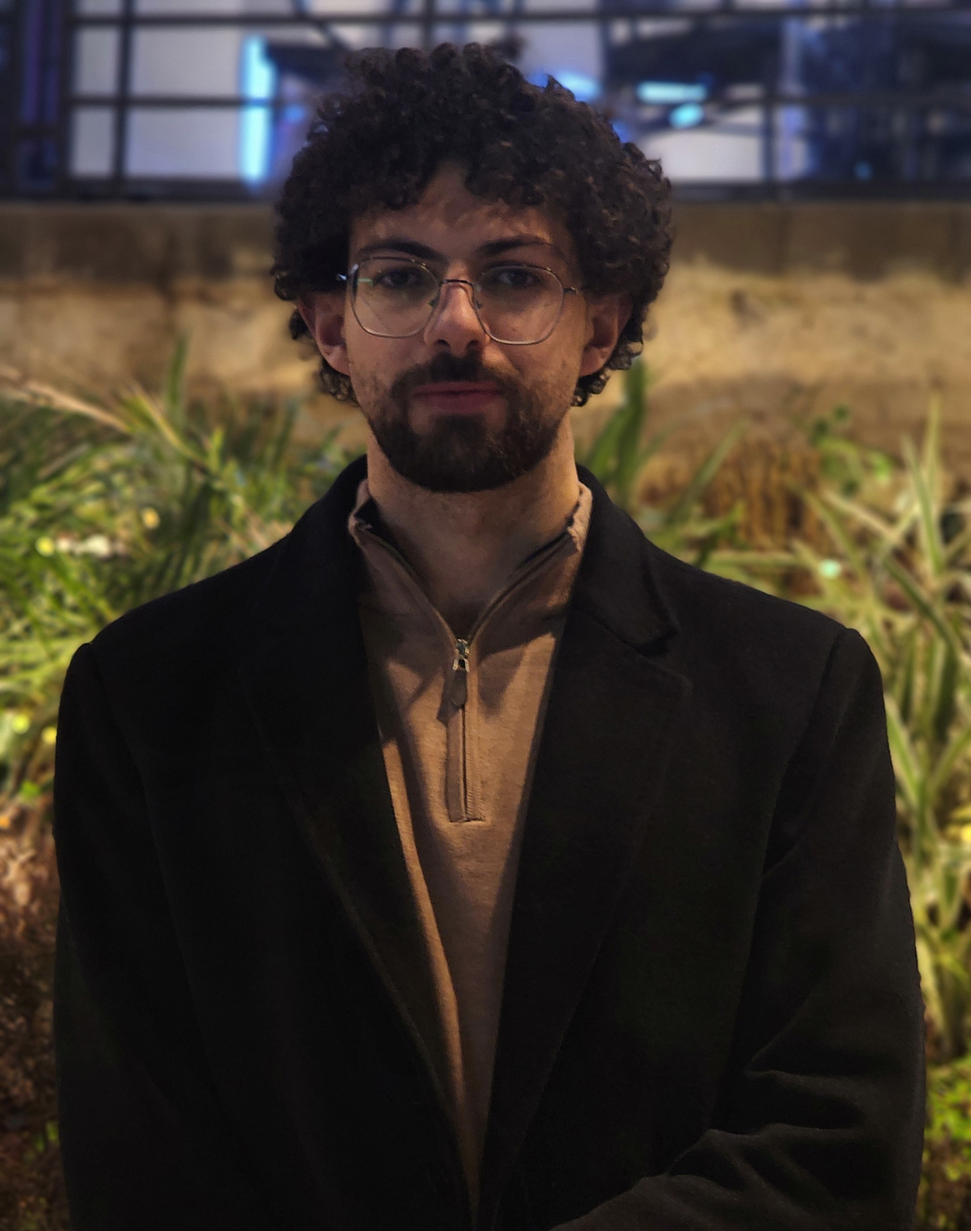
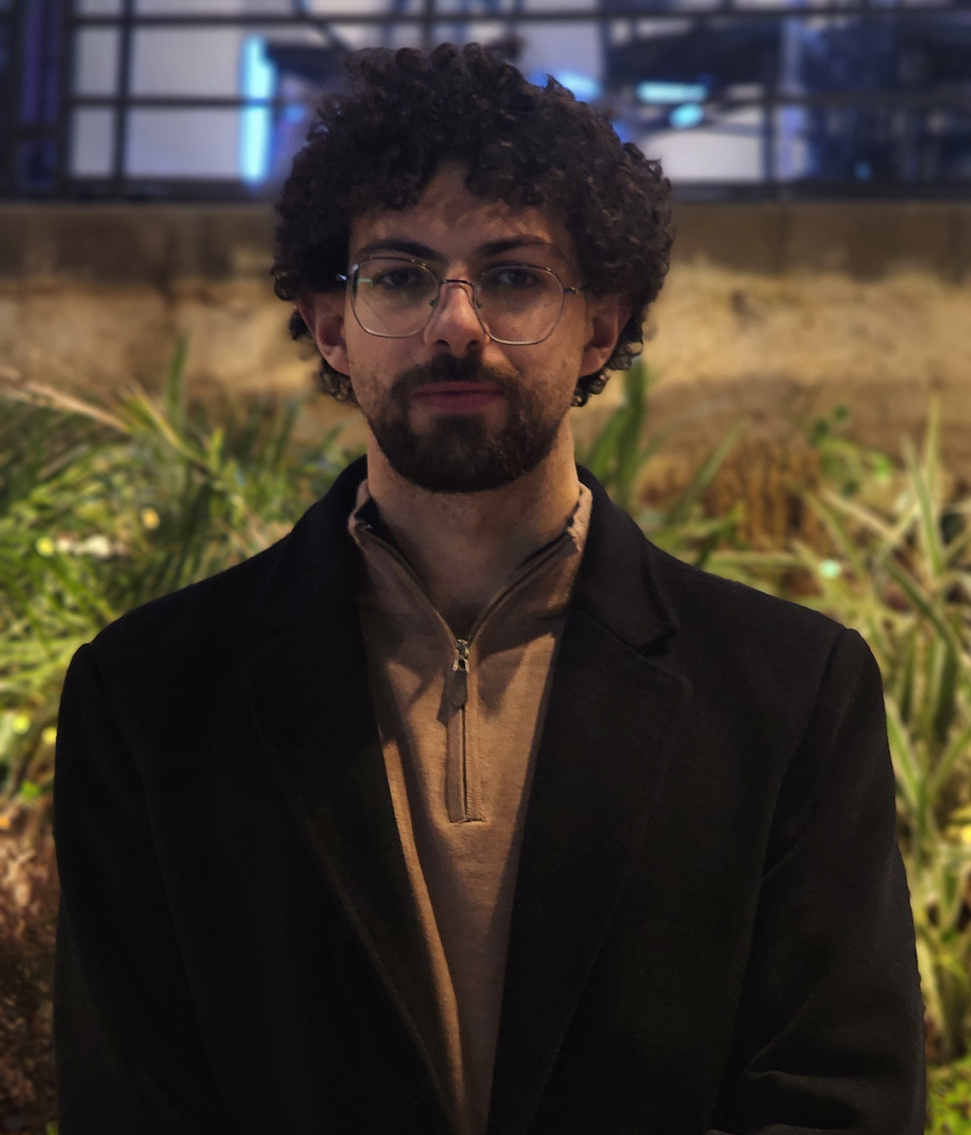
Move profile photo to hero section

diff --git a/src/components/sections/hero-section.tsx b/src/components/sections/hero-section.tsx
@@ -1,4 +1,6 @@
+import Image from "next/image";
 import Link from "next/link";
+
 import { Container } from "@/components/ui/container";
 import { profile } from "@/config/profile";
 import { getLocalizedText } from "@/i18n/locales";
@@ -59,11 +61,12 @@ function ActionLink({ link, locale, variant }: ActionLinkProps) {
 
 export function HeroSection({ locale }: HeroSectionProps) {
   const hero = profile.hero;
+  const photo = profile.photo;
 
   return (
     <section className="bg-[radial-gradient(circle_at_top_left,_#ede9fe,_transparent_32rem)] py-16 dark:bg-[radial-gradient(circle_at_top_left,_rgba(126,34,206,0.24),_transparent_34rem)] sm:py-24">
       <Container>
-        <div className="grid items-center gap-10 lg:grid-cols-[1.15fr_0.85fr]">
+        <div className="grid items-center gap-12 lg:grid-cols-[minmax(0,1.05fr)_minmax(22rem,0.95fr)]">
           <div className="max-w-3xl">
             <p className="text-sm font-medium uppercase tracking-[0.24em] text-purple-700 dark:text-purple-300">
               {getLocalizedText(hero.eyebrow, locale)}
@@ -91,31 +94,55 @@ export function HeroSection({ locale }: HeroSectionProps) {
             </div>
           </div>
 
-          <aside className="rounded-[2rem] border border-purple-100 bg-white/85 p-6 shadow-sm backdrop-blur dark:border-purple-400/20 dark:bg-zinc-900/80 sm:p-8">
-            <p className="text-sm font-medium text-purple-700 dark:text-purple-300">
-              {locale === "en" ? "Profile snapshot" : "لمحة سريعة"}
-            </p>
+          <aside
+            className="relative isolate mx-auto w-full max-w-md lg:mx-0 lg:justify-self-end"
+            aria-label={locale === "en" ? "Profile snapshot" : "لمحة سريعة"}
+          >
+            <div className="absolute -inset-4 -z-10 rounded-[2rem] bg-purple-200/45 blur-3xl dark:bg-purple-500/20" />
 
-            <h2 className="mt-4 text-2xl font-semibold text-zinc-950 dark:text-zinc-50">
-              {profile.displayName}
-            </h2>
+            <div className="overflow-hidden rounded-[2rem] border border-purple-100 bg-white/85 p-3 shadow-xl shadow-purple-950/10 backdrop-blur dark:border-purple-400/20 dark:bg-zinc-900/80 dark:shadow-black/30">
+              {photo ? (
+                <figure className="overflow-hidden rounded-[1.5rem] bg-purple-50 dark:bg-purple-400/10">
+                  <Image
+                    src={photo.src}
+                    alt={getLocalizedText(photo.alt, locale)}
+                    width={photo.width}
+                    height={photo.height}
+                    sizes="(min-width: 1024px) 26rem, (min-width: 640px) 28rem, 100vw"
+                    loading="eager"
+                    fetchPriority="high"
+                    className="aspect-[4/5] w-full object-cover"
+                  />
+                </figure>
+              ) : null}
 
-            <p className="mt-3 text-sm leading-6 text-zinc-600 dark:text-zinc-300">
-              {getLocalizedText(profile.role, locale)}
-            </p>
+              <div className="p-5 sm:p-6">
+                <p className="text-xs font-semibold uppercase tracking-[0.2em] text-purple-700 dark:text-purple-300">
+                  {locale === "en" ? "Profile snapshot" : "لمحة سريعة"}
+                </p>
 
-            <dl className="mt-6 space-y-4 border-t border-zinc-200 pt-6 dark:border-white/10">
-              {profile.about.highlights.map((highlight) => (
-                <div key={getLocalizedText(highlight.label, locale)}>
-                  <dt className="text-xs font-semibold uppercase tracking-[0.18em] text-zinc-500 dark:text-zinc-400">
-                    {getLocalizedText(highlight.label, locale)}
-                  </dt>
-                  <dd className="mt-1 text-sm font-medium text-zinc-950 dark:text-zinc-100">
-                    {getLocalizedText(highlight.value, locale)}
-                  </dd>
-                </div>
-              ))}
-            </dl>
+                <h2 className="mt-3 text-2xl font-semibold text-zinc-950 dark:text-zinc-50">
+                  {profile.displayName}
+                </h2>
+
+                <p className="mt-2 text-sm leading-6 text-zinc-600 dark:text-zinc-300">
+                  {getLocalizedText(profile.role, locale)}
+                </p>
+
+                <dl className="mt-5 grid gap-3 border-t border-zinc-200 pt-5 dark:border-white/10 sm:grid-cols-3 lg:grid-cols-1 xl:grid-cols-3">
+                  {profile.about.highlights.map((highlight) => (
+                    <div key={getLocalizedText(highlight.label, locale)}>
+                      <dt className="text-[0.7rem] font-semibold uppercase tracking-[0.16em] text-zinc-500 dark:text-zinc-400">
+                        {getLocalizedText(highlight.label, locale)}
+                      </dt>
+                      <dd className="mt-1 text-sm font-medium leading-5 text-zinc-950 dark:text-zinc-100">
+                        {getLocalizedText(highlight.value, locale)}
+                      </dd>
+                    </div>
+                  ))}
+                </dl>
+              </div>
+            </div>
           </aside>
         </div>
       </Container>

diff --git a/src/components/sections/about-section.tsx b/src/components/sections/about-section.tsx
@@ -1,5 +1,3 @@
-import Image from "next/image";
-
 import { Section } from "@/components/ui/section";
 import { profile } from "@/config/profile";
 import { getLocalizedText } from "@/i18n/locales";
@@ -9,9 +7,21 @@ type AboutSectionProps = Readonly<{
   locale: Locale;
 }>;
 
+const approachItems = {
+  en: [
+    "Start with clear structure before adding visual complexity.",
+    "Keep content, components, accessibility, and performance in mind from the beginning.",
+    "Build in focused checkpoints so every change can be reviewed and improved.",
+  ],
+  ar: [
+    "أبدأ ببنية واضحة قبل إضافة التعقيد البصري.",
+    "أراعي المحتوى، المكونات، الإتاحة، والأداء منذ البداية.",
+    "أبني على مراحل مركزة حتى يمكن مراجعة كل تغيير وتحسينه.",
+  ],
+} as const;
+
 export function AboutSection({ locale }: AboutSectionProps) {
   const about = profile.about;
-  const photo = about.photo;
 
   return (
     <Section
@@ -20,7 +30,7 @@ export function AboutSection({ locale }: AboutSectionProps) {
       title={getLocalizedText(about.title, locale)}
       className="border-t border-purple-100 bg-white dark:border-white/10 dark:bg-zinc-950"
     >
-      <div className="grid gap-10 lg:grid-cols-[1fr_0.85fr]">
+      <div className="mx-auto max-w-4xl space-y-8">
         <div className="space-y-5 text-base leading-8 text-zinc-600 dark:text-zinc-300 sm:text-lg">
           {about.paragraphs.map((paragraph) => (
             <p key={getLocalizedText(paragraph, locale)}>
@@ -29,49 +39,22 @@ export function AboutSection({ locale }: AboutSectionProps) {
           ))}
         </div>
 
-        <aside
-          className="space-y-6"
-          aria-label={locale === "en" ? "About highlights" : "ملخص عني"}
-        >
-          {photo ? (
-            <figure className="overflow-hidden rounded-3xl border border-purple-100 bg-purple-50/50 p-3 shadow-sm shadow-purple-950/5 dark:border-purple-400/20 dark:bg-purple-400/5 dark:shadow-black/20">
-              <Image
-                src={photo.src}
-                alt={getLocalizedText(photo.alt, locale)}
-                width={photo.width}
-                height={photo.height}
-                sizes="(min-width: 1024px) 34rem, 100vw"
-                loading="eager"
-                fetchPriority="high"
-                className="aspect-[4/5] w-full rounded-2xl object-cover"
-              />
-            </figure>
-          ) : null}
+        <div className="rounded-3xl border border-purple-100 bg-purple-50/60 p-6 dark:border-purple-400/20 dark:bg-purple-400/5 sm:p-8">
+          <h2 className="text-lg font-semibold text-zinc-950 dark:text-zinc-50">
+            {locale === "en" ? "How I approach work" : "كيف أتعامل مع العمل"}
+          </h2>
 
-          <div className="rounded-3xl border border-purple-100 bg-purple-50/50 p-6 dark:border-purple-400/20 dark:bg-purple-400/5 sm:p-8">
-            <h2 className="text-lg font-semibold text-zinc-950 dark:text-zinc-50">
-              {locale === "en" ? "How I approach work" : "كيف أتعامل مع العمل"}
-            </h2>
-
-            <ul className="mt-5 space-y-4 text-sm leading-6 text-zinc-600 dark:text-zinc-300">
-              <li>
-                {locale === "en"
-                  ? "Start with clear structure before adding visual complexity."
-                  : "أبدأ ببنية واضحة قبل إضافة التعقيد البصري."}
+          <ul className="mt-5 grid gap-4 text-sm leading-6 text-zinc-600 dark:text-zinc-300 md:grid-cols-3">
+            {approachItems[locale].map((item) => (
+              <li
+                key={item}
+                className="rounded-2xl border border-white/70 bg-white/70 p-4 dark:border-white/10 dark:bg-zinc-950/40"
+              >
+                {item}
               </li>
-              <li>
-                {locale === "en"
-                  ? "Keep content, components, accessibility, and performance in mind from the beginning."
-                  : "أراعي المحتوى، المكونات، الإتاحة، والأداء منذ البداية."}
-              </li>
-              <li>
-                {locale === "en"
-                  ? "Build in focused checkpoints so every change can be reviewed and improved."
-                  : "أبني على مراحل مركزة حتى يمكن مراجعة كل تغيير وتحسينه."}
-              </li>
-            </ul>
-          </div>
-        </aside>
+            ))}
+          </ul>
+        </div>
       </div>
     </Section>
   );

diff --git a/src/config/profile.ts b/src/config/profile.ts
@@ -10,6 +10,15 @@ export const profile = {
     en: "I build clean, reliable, and user-focused web experiences while growing my skills in software engineering and computer engineering.",
     ar: "أبني تجارب ويب نظيفة وموثوقة ومريحة للمستخدم، مع تطوير مهاراتي في هندسة البرمجيات وهندسة الحاسوب.",
   },
+  photo: {
+    src: "/images/profile.webp",
+    alt: {
+      en: "Portrait of Shaker Al-Masri, Computer Engineering student and full-stack web developer",
+      ar: "صورة شخصية لشاكر المصري، طالب هندسة حاسوب ومطور ويب Full-stack",
+    },
+    width: 960,
+    height: 1200,
+  },
   hero: {
     eyebrow: {
       en: "Computer Engineering × Full-stack Web Development",
@@ -89,15 +98,5 @@ export const profile = {
         },
       },
     ],
-
-    photo: {
-      src: "/images/profile.webp",
-      alt: {
-        en: "Portrait of Shaker Al-Masri, Computer Engineering student and full-stack web developer",
-        ar: "صورة شخصية لشاكر المصري، طالب هندسة حاسوب ومطور ويب Full-stack",
-      },
-      width: 960,
-      height: 1200,
-    },
   },
 } as const satisfies ProfileConfig;

diff --git a/src/types/portfolio.ts b/src/types/portfolio.ts
@@ -31,6 +31,7 @@ export type ProfileConfig = {
   displayName: string;
   role: LocalizedText;
   shortBio: LocalizedText;
+  photo?: ProfilePhoto;
   hero: {
     eyebrow: LocalizedText;
     headline: LocalizedText;
@@ -43,7 +44,6 @@ export type ProfileConfig = {
     title: LocalizedText;
     paragraphs: readonly LocalizedText[];
     highlights: readonly ProfileHighlight[];
-    photo?: ProfilePhoto;
   };
 };
 
